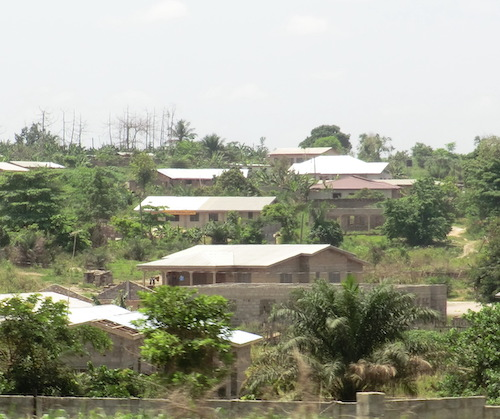
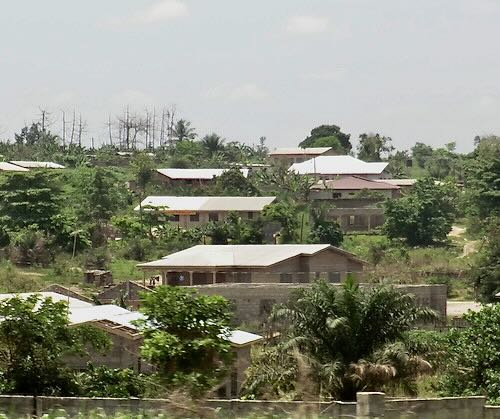
More images

diff --git a/docs/software.html b/docs/software.html
@@ -233,11 +233,11 @@ window.Quarto = {
 
 <div class="quarto-listing quarto-listing-container-grid" id="listing-research-list">
 <div class="list grid quarto-listing-cols-3">
-<div class="g-col-1" data-index="0" data-listing-file-modified-sort="1792553902830" data-listing-reading-time-sort="2" data-listing-word-count-sort="338">
+<div class="g-col-1" data-index="0" data-listing-file-modified-sort="1792729372789" data-listing-reading-time-sort="2" data-listing-word-count-sort="338">
 <a href="./software/epidemia2.html" class="quarto-grid-link">
 <div class="quarto-grid-item card h-100 card-left">
 <p class="card-img-top">
-<img loading="lazy" src="./images/IMG_1637.JPG" class="thumbnail-image card-img" style="height: 220px;">
+<img loading="lazy" src="./images/clinic_small.jpg" class="thumbnail-image card-img" style="height: 220px;">
 </p>
 <div class="card-body post-contents">
 <h5 class="no-anchor card-title listing-title">
@@ -265,11 +265,11 @@ ArboMAP 2.0
 </div>
 </div></a>
 </div>
-<div class="g-col-1" data-index="2" data-listing-file-modified-sort="1792554010709" data-listing-reading-time-sort="5" data-listing-word-count-sort="987">
+<div class="g-col-1" data-index="2" data-listing-file-modified-sort="1792729342530" data-listing-reading-time-sort="5" data-listing-word-count-sort="987">
 <a href="./software/epidemia.html" class="quarto-grid-link">
 <div class="quarto-grid-item card h-100 card-left">
 <p class="card-img-top">
-<img loading="lazy" src="./images/IMG_1637.JPG" class="thumbnail-image card-img" style="height: 220px;">
+<img loading="lazy" src="./images/anti_malaria.JPG" class="thumbnail-image card-img" style="height: 220px;">
 </p>
 <div class="card-body post-contents">
 <h5 class="no-anchor card-title listing-title">
@@ -281,11 +281,11 @@ EPIDEMIA
 </div>
 </div></a>
 </div>
-<div class="g-col-1" data-index="3" data-listing-file-modified-sort="1792553956342" data-listing-reading-time-sort="4" data-listing-word-count-sort="690">
+<div class="g-col-1" data-index="3" data-listing-file-modified-sort="1792730623694" data-listing-reading-time-sort="4" data-listing-word-count-sort="690">
 <a href="./software/arbomap.html" class="quarto-grid-link">
 <div class="quarto-grid-item card h-100 card-left">
 <p class="card-img-top">
-<img loading="lazy" src="./images/mosquito_small.jpg" class="thumbnail-image card-img" style="height: 220px;">
+<img loading="lazy" src="./images/mosquito_trap.JPG" class="thumbnail-image card-img" style="height: 220px;">
 </p>
 <div class="card-body post-contents">
 <h5 class="no-anchor card-title listing-title">
@@ -313,11 +313,11 @@ WAForDD
 </div>
 </div></a>
 </div>
-<div class="g-col-1" data-index="5" data-listing-file-modified-sort="1792553994005" data-listing-reading-time-sort="4" data-listing-word-count-sort="627">
+<div class="g-col-1" data-index="5" data-listing-file-modified-sort="1792729416638" data-listing-reading-time-sort="4" data-listing-word-count-sort="627">
 <a href="./software/change.html" class="quarto-grid-link">
 <div class="quarto-grid-item card h-100 card-left">
 <p class="card-img-top">
-<img loading="lazy" src="./images/Colorado_WUI.JPG" class="thumbnail-image card-img" style="height: 220px;">
+<img loading="lazy" src="./images/wui_small.JPG" class="thumbnail-image card-img" style="height: 220px;">
 </p>
 <div class="card-body post-contents">
 <h5 class="no-anchor card-title listing-title">

diff --git a/docs/research/climateepi.html b/docs/research/climateepi.html
@@ -176,12 +176,6 @@ ul.task-list li input[type="checkbox"] {
 </header>
 
 
-<div class="quarto-figure quarto-figure-center">
-<figure class="figure">
-<p><img src="../images/clinic_small.jpg" class="img-fluid figure-img"></p>
-<figcaption>Test image</figcaption>
-</figure>
-</div>
 <p>Individual weather events, short-term climate variability, and long-term climate change all influence human health. An important pathway for these effects is through environmentally sensitive infectious diseases caused by water-borne, vector-borne, and zoonotic pathogens. Geographic patterns of climate limit the distributions of vector and host species. Seasonal and interannual climate variations influence the timing and abundance of vector and host populations. Climate-driven shifts in the hydrological cycle cause flooding and drought, both of which can increase transmission of water-borne pathogens. The effects of climate change on infectious disease risk depend on the biological characteristics of the species involved and the local physical and social environments in which transmission occurs.</p>
 <p>We study the effects of climate variation on West Nile virus (WNV) in the United States and malaria in Ethiopia and India. During the 2003 WNV outbreak in the northern Great Plains, the highest incidence occurred in locations with warmer temperatures and intermediate levels of precipitation (<a href="#weather-refs">Wimberly et al.&nbsp;2008</a>). Subsequent outbreaks occurred in years with higher than usual temperatures during the transmission season and the preceding winter (<a href="#weather-refs">Wimberly et al.&nbsp;2014</a>). Time series modeling studies in South Dakota and Louisiana have identified strong temperature effects on seasonal and interannual patterns of WNV cases and have also highlighed influences of precipitation, atmospheric humidity, and windspeed (<a href="#weather-refs">Davis et al.&nbsp;2018</a>, <a href="#weather-refs">Bump et al.&nbsp;2025</a>. In Ethiopia, warmer temperatures were associated with malaria outbreaks in wetter districts, whereas rainfall and moisture indices had stronger influences in drier districts (<a href="#weather-refs">Midekisa et al.&nbsp;2015</a>). These associations provide the basis for developing timeseries models that predict future disease risk based on lagged responses to weather events (<a href="#weather-refs">Midekisa et al.&nbsp;2012</a>, <a href="#weather-refs">Davis et al.&nbsp;2019</a>).</p>
 <section id="weather-refs" class="level3">

diff --git a/docs/research.html b/docs/research.html
@@ -225,11 +225,11 @@ window.Quarto = {
 <h2 class="anchored" data-anchor-id="topics">Topics</h2>
 <div id="listing-research-list" class="quarto-listing quarto-listing-container-grid">
 <div class="list grid quarto-listing-cols-3">
-<div class="g-col-1" data-index="0" data-listing-file-modified-sort="1792727737499" data-listing-reading-time-sort="3" data-listing-word-count-sort="525">
+<div class="g-col-1" data-index="0" data-listing-file-modified-sort="1792728968137" data-listing-reading-time-sort="3" data-listing-word-count-sort="524">
 <a href="./research/climateepi.html" class="quarto-grid-link">
 <div class="quarto-grid-item card h-100 card-left">
 <p class="card-img-top">
-<img loading="lazy" src="./images/climate_epi.jpg" class="thumbnail-image card-img" style="height: 220px;">
+<img loading="lazy" src="./images/climate_epi.jpeg" class="thumbnail-image card-img" style="height: 220px;">
 </p>
 <div class="card-body post-contents">
 <h5 class="no-anchor card-title listing-title">
